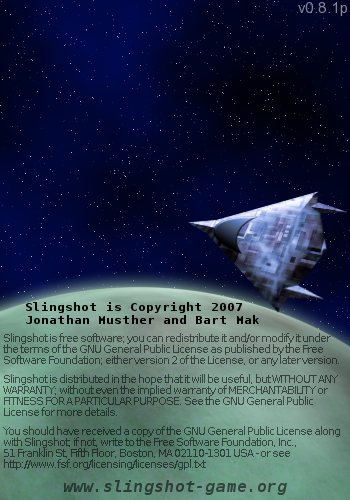
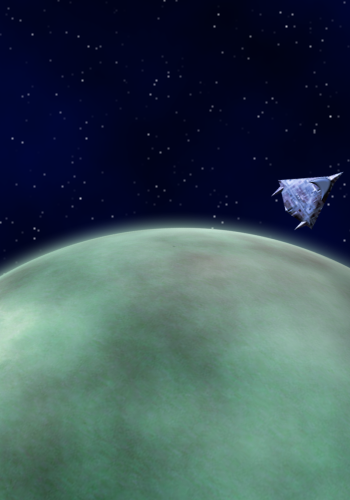
Draw the fine print on menu instead of having an image

diff --git a/src/slingshot/menu.py b/src/slingshot/menu.py
@@ -99,6 +99,32 @@ class Menu:
 		result = pygame.Surface((w, h))
 		#result.fill((100,0,0))
 		result.blit(Settings.menu_background, (0,0))
+                for line, (x, y) in prep_text([
+"Slingshot is:",
+"    Copyright (C) 2007 Jonathan Musther <jmusther@gmail.com>",
+"    Copyright (C) 2007 Bart Mak",
+"    Copyright (C) 2009 Marcus Dreier <m-rei@gmx.net>",
+"    Copyright (C) 2010 Ryan Kavanagh <ryanakca@kubuntu.org>",
+"",
+"Slingshot is free software; you can redistribute it and/or modify",
+"it under the terms of the GNU General Public License as published by",
+"the Free Software Foundation; either version 2 of the License, or",
+"(at your option) any later version.",
+"",
+"Slingshot is distributed in the hope that it will be useful,",
+"but WITHOUT ANY WARRANTY; without even the implied warranty of",
+"MERCHANTABILITY or FITNESS FOR A PARTICULAR PURPOSE.  See the",
+"GNU General Public License for more details.",
+"",
+"You should have received a copy of the GNU General Public License",
+"along with Slingshot; if not, write to the Free Software",
+"Foundation, Inc., 51 Franklin St, Fifth Floor, Boston, MA  02110-1301 USA",
+"",
+"http://github.com/ryanakca/slingshot"],
+                                True, Settings.fineprint, 0, (10, 10, 10)):
+                        # We want our text to start at 20px from the left side
+                        # and 305 px from the top.
+                        result.blit(line, (20, 305 + y))
 
 		txt = Settings.menu_font.render(self.name, 1, (255,255,255))
 		rect = txt.get_rect()
